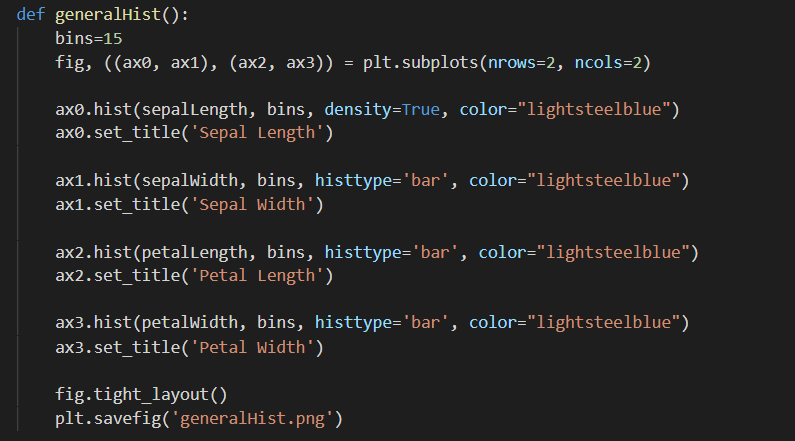
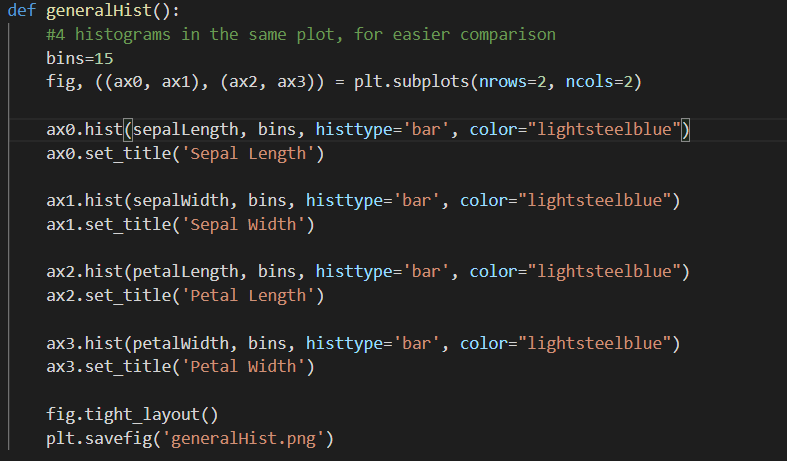
Analysis: Commenting Code

diff --git a/analysis.py b/analysis.py
@@ -5,26 +5,25 @@
 import csv
 import pandas as pd
 import matplotlib.pyplot as plt 
-import numpy as np
-import scipy.stats as stats
 
-#Iris Fisher Dataset downloaded in CSV and saved in project folder. [REF]: Dataset download: https://tableconvert.com/?output=csv
+
+#Iris Fisher Dataset downloaded in CSV and saved in project folder.                 [REF]: Dataset download: https://tableconvert.com/?output=csv
 filename='IrisData.csv'
 
 #Reading from CSV file     
 with open (filename, 'rt') as csvFile:
     csvReader=csv.DictReader(csvFile)
-    data={}
-    for row in csvReader:
-        for header, value in row.items():                           #[REFB]: https://stackoverflow.com/questions/19486369/extract-csv-file-specific-columns-to-list-in-python
+    data={}                                         #defining an empty dict (data)
+    for row in csvReader:                           #reading row by row
+        for header, value in row.items():           #for each row read, appends the header and the correspondent value to the dict      #[REF]: https://stackoverflow.com/questions/19486369/extract-csv-file-specific-columns-to-list-in-python
             try:
-                data[header].append(value)
+                data[header].append(value)          #Appending to the dict in this step
             except KeyError:
                 data[header]=[value]
 
-#Lists created but in strings type. 
-#Data will be converted to float in the next step
-column1=data['ï»¿sepal_length']               
+
+#Separating Dict Data into Lists. One list for each column. Data still as strings.
+column1=data['ï»¿sepal_length']                         
 column2=data['sepal_width']              
 column3=data['petal_length']
 column4=data['petal_width']
@@ -40,9 +39,12 @@ dictLists={'Sepal Length':pd.Series(sepalLength), 'Sepal Width':pd.Series(sepalW
 
 #Creating DataFrame                                                 [REFE]:https://www.w3resource.com/pandas/dataframe/dataframe-describe.php
 df=pd.DataFrame(dictLists)
-pd.set_option("display.precision", 2)       #Change table to 2 decimal places [REF:https://pandas.pydata.org/pandas-docs/stable/user_guide/options.html]                                    
-analysisPara=df.describe()                  #analysis of parameters (count, mean, stf, min, max and percentiles)
+pd.set_option("display.precision", 2)                          #Change table to 2 decimal places [REF:https://pandas.pydata.org/pandas-docs/stable/user_guide/options.html]                                    
 
+#Describe function
+#General Analysis
+analysisPara=df.describe()                                         #analysis of parameters (count, mean, stf, min, max and percentiles)
+#Analysis by species
 setosaTBL=df.loc[0:49].describe()
 versicolorTBL=df.loc[50:99].describe()
 virginicaTBL=df.loc[100:].describe()
@@ -53,7 +55,7 @@ textFile='VariablesSummary.txt'
 def writeFile ():
     with open (textFile, "wt") as tf:
         tf.write('General Table'+ '\n' +'\n')
-        tf.write(str(analysisPara) + '\n'+'\n')
+        tf.write(str(analysisPara) + '\n'+'\n')         #Values had to be converted to string. \n is for spacing between tables
         tf.write('Iris Setosa' + '\n' +'\n')
         tf.write(str(setosaTBL)+ '\n'+'\n')
         tf.write('Iris Vericolor' +'\n'+ '\n')
@@ -67,7 +69,7 @@ writeFile()
 #HISTOGRAMS
 #Separating each variable into the types of flowers.
 #SEPAL LENGTH
-setosaSL=sepalLength[:50]                                       #can eliminate this by using always like sepalLength[0:50]
+setosaSL=sepalLength[:50]                                       #can eliminate this by using always like sepalLength[0:50]. It was easier to read this way, so left it like that
 versicolorSL=sepalLength[50:100]
 virginicaSL=sepalLength[100:]
 
@@ -86,18 +88,13 @@ setosaPW=petalWidth[:50]
 versicolorPW=petalWidth[50:100]
 virginicaPW=petalWidth[100:]
 
-#Combining Lists to be able to identiy data into plots
-#I THINK IT CAN BE DELETED
-#sepalLengthHist=[setosaSL, versicolorSL, virginicaSL]
-#sepalWidthHist=[setosaSW, versicolorSW, virginicaSW]
-#petalLengthHist=[setosaPL, versicolorPL, virginicaPL]
-#petalWidthHist=[setosaPW, versicolorPW, virginicaPW]
 
-def generalHist():                                                                  #get source for subplots
+def generalHist():       
+    #4 histograms in the same plot, for easier comparison                                                           
     bins=15
-    fig, ((ax0, ax1), (ax2, ax3)) = plt.subplots(nrows=2, ncols=2)
+    fig, ((ax0, ax1), (ax2, ax3)) = plt.subplots(nrows=2, ncols=2)                      #[REF][16]: https://matplotlib.org/stable/gallery/subplots_axes_and_figures/subplots_demo.html
 
-    ax0.hist(sepalLength, bins, density=True, color="lightsteelblue")
+    ax0.hist(sepalLength, bins, histtype='bar', color="lightsteelblue")
     ax0.set_title('Sepal Length')
 
     ax1.hist(sepalWidth, bins, histtype='bar', color="lightsteelblue")
@@ -124,7 +121,7 @@ def histFlower():
     #ax0.legend(prop={'size': 10})
     #ax0.set_title('Sepal Length')
 
-    ax0.hist(setosaSL, bins=10, histtype="bar", color="goldenrod", label="Setosa", stacked=True, edgecolor="grey")                 ##https://jakevdp.github.io/PythonDataScienceHandbook/04.05-histograms-and-binnings.html
+    ax0.hist(setosaSL, bins=10, histtype="bar", color="goldenrod", label="Setosa", stacked=True, edgecolor="grey")                 #[REF][17]https://jakevdp.github.io/PythonDataScienceHandbook/04.05-histograms-and-binnings.html
     ax0.hist(virginicaSL, bins=10, histtype="bar", color="cornflowerblue", label="Virginica", stacked=True, edgecolor="grey")
     ax0.hist(versicolorSL, bins=10, histtype="bar", color="salmon", label="Versicolor", stacked=True, edgecolor="grey", alpha=0.6)
     ax0.legend(prop={"size":10})
@@ -152,8 +149,8 @@ def histFlower():
     plt.savefig('4plots.png')
     #plt.show()
 
-#generalHist()
-#histFlower()
+generalHist()
+histFlower()
 
 #SCATTER:
 def scatterSepalLength():
@@ -280,3 +277,4 @@ scatterSepalLength()
 scatterSepalWidth()
 scatterPetalLength()
 scatterPetalWidth()
+
